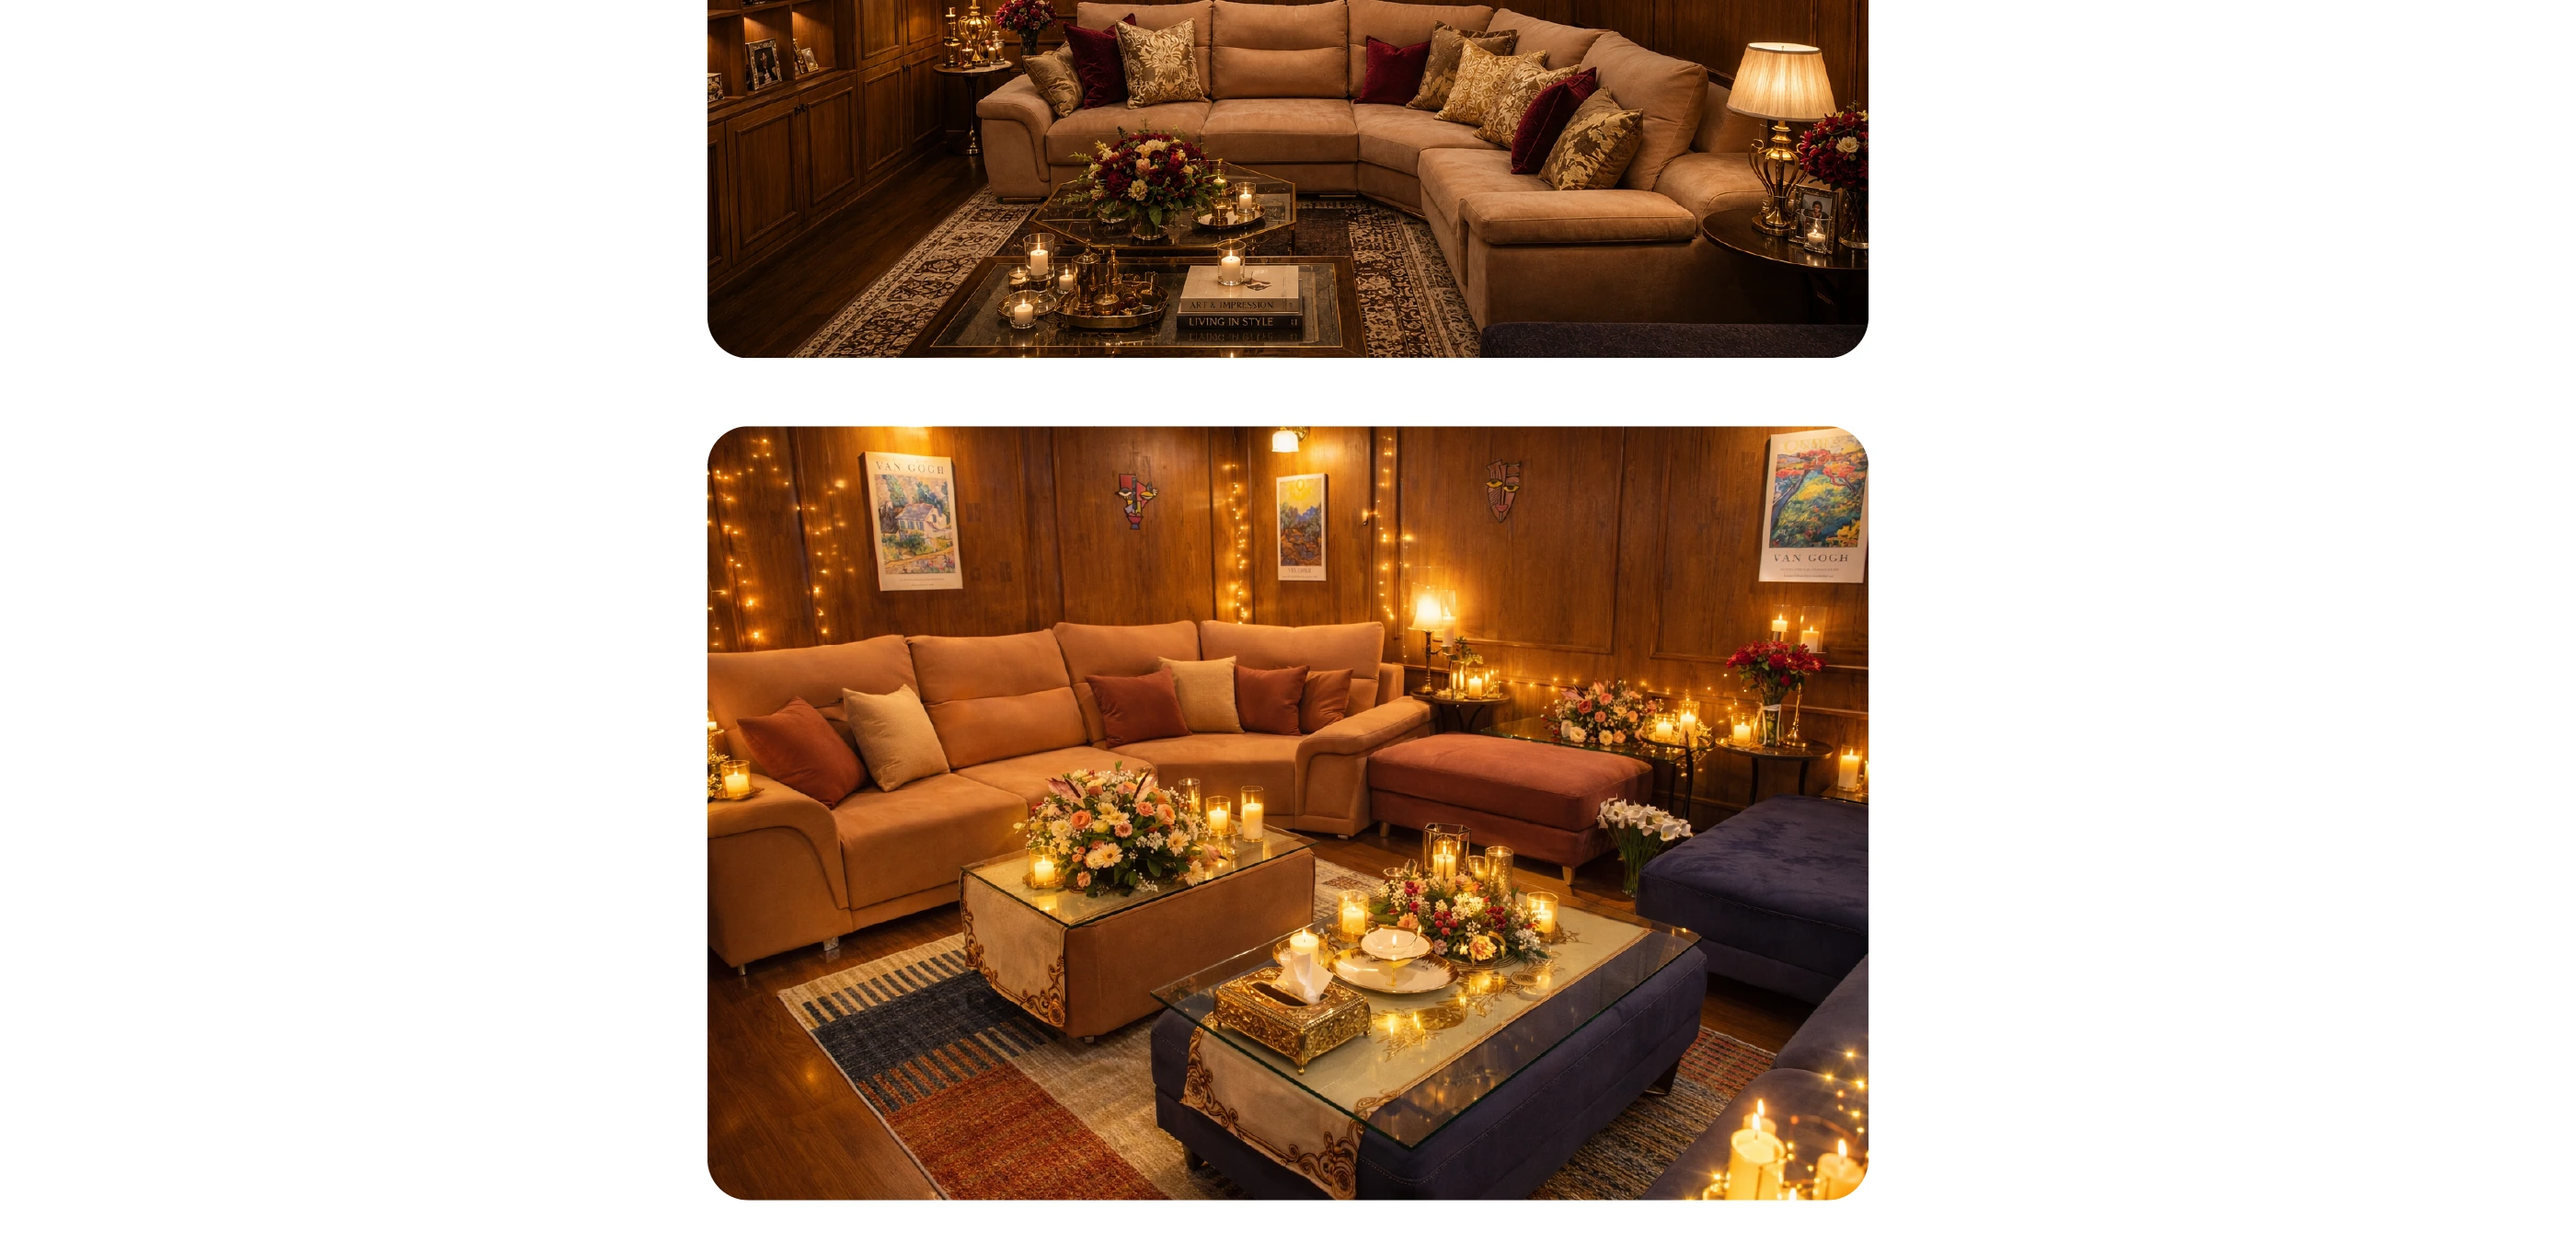
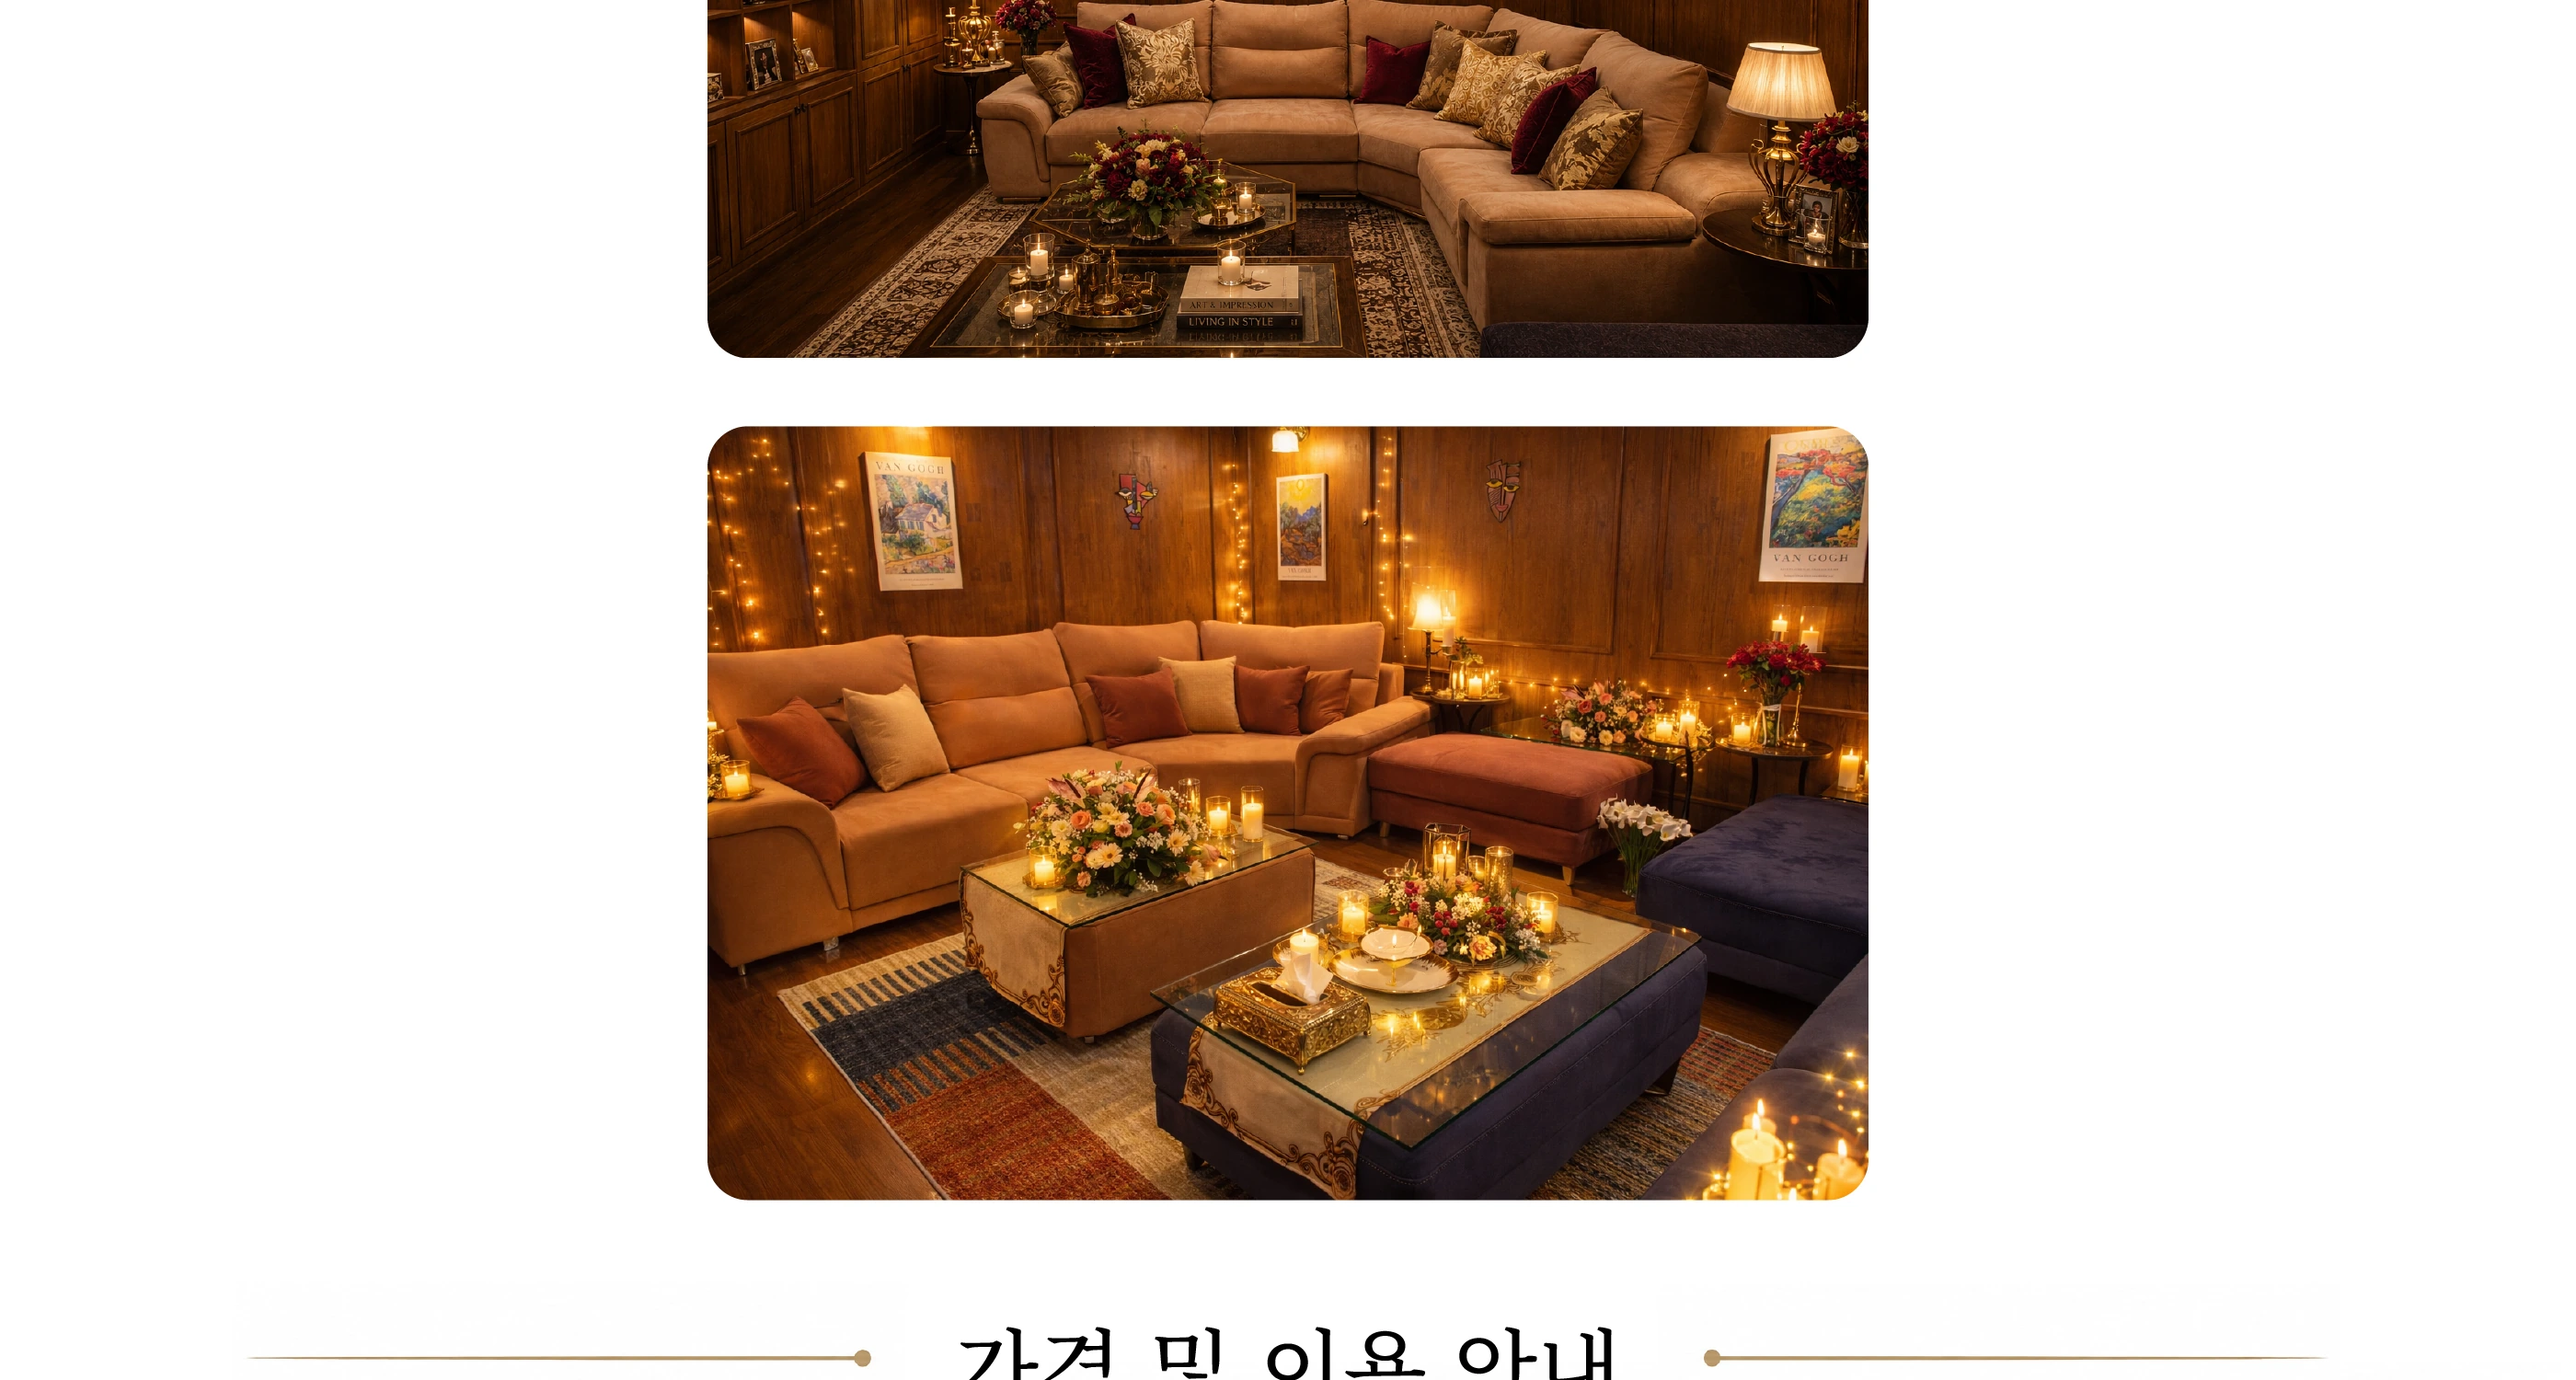
상세 페이지 되돌리기: 새 이미지 3장을 자르지 않고 전체 사용
- 요금 구간 잘라내기와 DB 요금 블록(FloorPricing) 제거
- 2F·4F·6F 각 9조각, 원본 폭 2800px 그대로

diff --git a/src/app/spaces/[floor]/page.tsx b/src/app/spaces/[floor]/page.tsx
@@ -2,16 +2,13 @@ import type { Metadata } from "next";
 import { notFound } from "next/navigation";
 import { SiteHeader } from "@/components/site-header";
 import { SiteFooter } from "@/components/site-footer";
-import { FloorPricing } from "@/components/floor-pricing";
 
 // 상세 이미지는 Safari/iOS의 대형 이미지(>16.7MP) 강제 축소를 피하려고
 // 세로 1500px씩 잘라둔다 (public/images/floor-{key}-01.webp ~). 조각 수는 층마다 다름.
-// 이미지의 "가격 및 이용 안내" 구간은 잘라내고 <FloorPricing>(DB 요금)이 대신 들어간다.
-// tail: 요금 구간 뒤에 남는 이미지(6F 시설 안내 등) 조각 수 — floor-{key}-t01.webp ~
 const FLOORS = {
-  "2f": { floor: "2F", name: "시그니처 스위트", slices: 6, tail: 0 },
-  "4f": { floor: "4F", name: "시그니처 컨벤션", slices: 7, tail: 0 },
-  "6f": { floor: "6F", name: "시그니처 루프탑", slices: 5, tail: 1 },
+  "2f": { floor: "2F", name: "시그니처 스위트", slices: 9 },
+  "4f": { floor: "4F", name: "시그니처 컨벤션", slices: 9 },
+  "6f": { floor: "6F", name: "시그니처 루프탑", slices: 9 },
 } as const;
 
 type FloorKey = keyof typeof FLOORS;
@@ -71,24 +68,6 @@ export default async function FloorPage({
           })}
         </div>
 
-        <FloorPricing spaceCode={floor} />
-
-        {data.tail > 0 && (
-          <div className="mx-auto flex max-w-(--container-page) flex-col">
-            {Array.from({ length: data.tail }, (_, i) => {
-              const n = String(i + 1).padStart(2, "0");
-              return (
-                <img
-                  key={n}
-                  src={`/images/floor-${floor}-t${n}.webp`}
-                  alt=""
-                  className="-mb-px block w-full"
-                  loading="lazy"
-                />
-              );
-            })}
-          </div>
-        )}
       </main>
       <SiteFooter />
     </>
